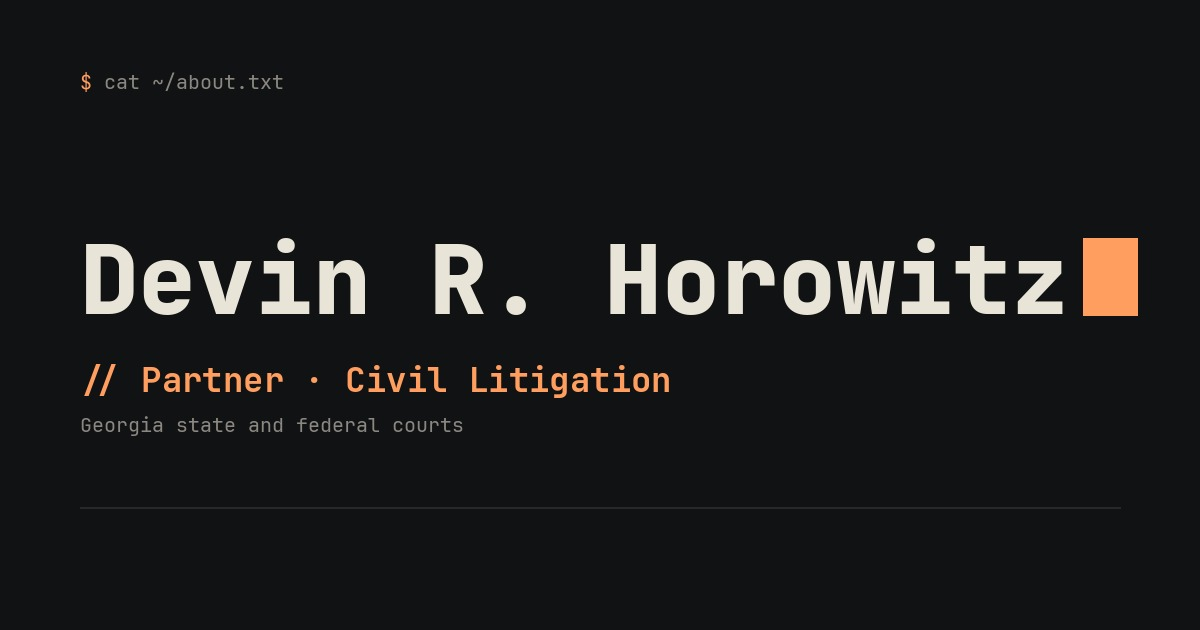
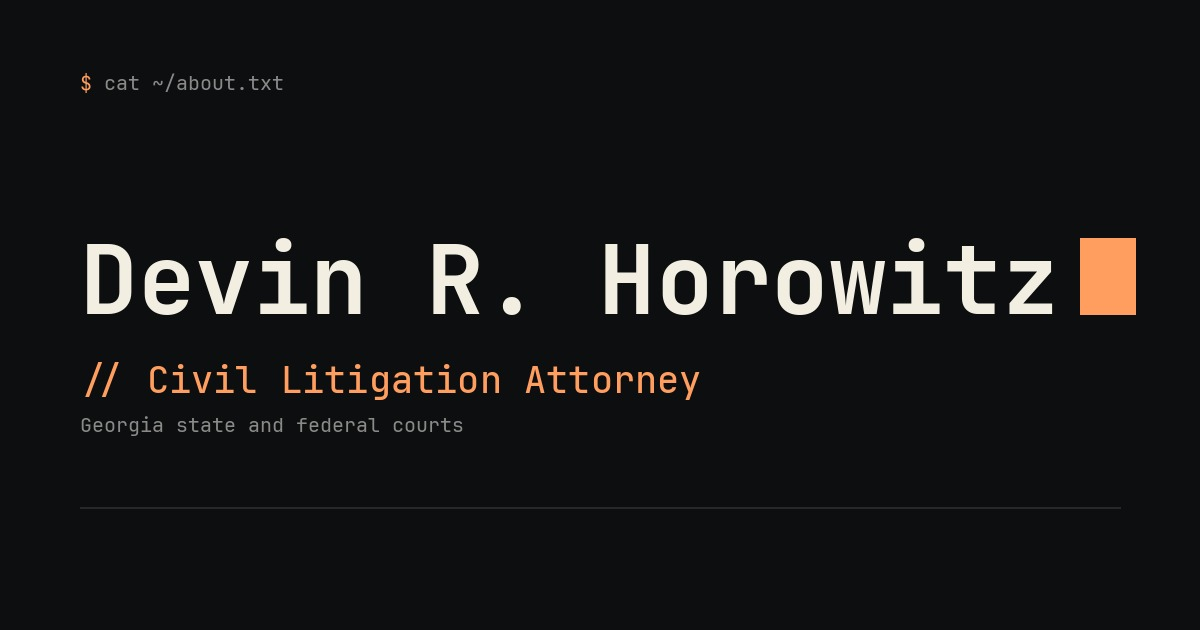
Add files via upload

diff --git a/index.html b/index.html
@@ -14,7 +14,7 @@
 <meta charset="UTF-8">
 <meta name="viewport" content="width=device-width, initial-scale=1.0">
 <title data-cfg-text="name_role_line">Devin R. Horowitz — Partner, Civil Litigation Attorney</title>
-<meta name="description" content="Devin R. Horowitz — Partner and civil litigation attorney with a decade of Georgia trial experience. Personal injury, complex liability. Based in metro Atlanta." data-cfg-content="desc_index">
+<meta name="description" content="Devin R. Horowitz — Partner and civil litigation attorney with Georgia trial experience since 2017. Personal injury, complex liability. Based in metro Atlanta." data-cfg-content="desc_index">
 <meta name="robots" content="index, follow">
 <meta name="theme-color" content="#0d0e10" media="(prefers-color-scheme: dark)">
 <meta name="theme-color" content="#f5ede0" media="(prefers-color-scheme: light)">
@@ -37,18 +37,18 @@
 <meta property="og:url" content="https://horowitz.law/">
 <meta property="og:locale" content="en_US">
 <meta property="og:title" content="Devin R. Horowitz — Partner, Civil Litigation Attorney" data-cfg-content="name_role_line">
-<meta property="og:description" content="Partner and civil litigation attorney with a decade of Georgia trial experience. Personal injury and complex liability matters." data-cfg-content="og_desc_index">
+<meta property="og:description" content="Partner and civil litigation attorney with Georgia trial experience since 2017. Personal injury and complex liability matters." data-cfg-content="og_desc_index">
 <meta property="og:image" content="https://horowitz.law/og-card.jpg">
 <meta property="og:image:type" content="image/jpeg">
 <meta property="og:image:width" content="1200">
 <meta property="og:image:height" content="630">
-<meta property="og:image:alt" content="Devin R. Horowitz — Partner, Civil Litigation Attorney, Georgia state and federal courts." data-cfg-content="og_image_alt">
+<meta property="og:image:alt" content="Devin R. Horowitz, Civil Litigation Attorney, Georgia state and federal courts." data-cfg-content="og_image_alt">
 <meta property="og:site_name" content="horowitz.law">
 
 <!-- Twitter -->
 <meta name="twitter:card" content="summary_large_image">
 <meta name="twitter:title" content="Devin R. Horowitz — Partner, Civil Litigation Attorney" data-cfg-content="name_role_line">
-<meta name="twitter:description" content="Partner and civil litigation attorney with a decade of Georgia trial experience. Personal injury and complex liability matters." data-cfg-content="og_desc_index">
+<meta name="twitter:description" content="Partner and civil litigation attorney with Georgia trial experience since 2017. Personal injury and complex liability matters." data-cfg-content="og_desc_index">
 <meta name="twitter:image" content="https://horowitz.law/og-card.jpg">
 
 <!-- JSON-LD structured data -->
@@ -898,8 +898,8 @@
     <section id="about">
       <h2 class="section-header">about</h2>
       <div class="section-body">
-        <p>Civil litigation attorney with a decade of Georgia trial experience, focused on personal injury and complex liability matters. I handle cases from pre-suit investigation through trial: catastrophic commercial-vehicle and wrongful-death claims, negligent entrustment, motor-vehicle liability, premises, and coverage disputes.</p>
-        <p>My career has run through both sides of the docket. I spent most of the past decade on the plaintiff side before moving to insurance defense at Quintairos, Prieto, Wood &amp; Boyer, P.A., where I am now a partner. The through-line across hundreds of depositions, mediations, and trials has been the same: build the file as if you're trying it.</p>
+        <p>Civil litigation attorney with Georgia trial experience since 2017, focused on personal injury and complex liability matters. I handle cases from pre-suit investigation through trial: catastrophic commercial-vehicle and wrongful-death claims, negligent entrustment, motor-vehicle liability, premises, and coverage disputes.</p>
+        <p>My career has run through both sides of the docket. I spent the early part of my career on the plaintiff side before moving to insurance defense at Quintairos, Prieto, Wood &amp; Boyer, P.A., where I am now a partner. The through-line across hundreds of depositions, mediations, and trials has been the same: build the file as if you're trying it.</p>
         <p>Before law, I earned a B.S. and M.S. in Information Technology with a concentration in information security and healthcare IT. That background still shapes how I work: discovery technology, document automation, and the systems side of running a litigation practice.</p>
       </div>
     </section>

diff --git a/resume.md b/resume.md
@@ -1,6 +1,6 @@
 ## summary
 
-Georgia civil litigator with a decade of experience on both sides of the docket. Current insurance defense practice in personal injury, premises liability, and trucking matters draws on six prior years of plaintiff-side personal injury work: drafting demands, reviewing medical records, and negotiating liens. The cross-side exposure informs how cases are built, valued, and resolved.
+Georgia civil litigator practicing on both sides of the docket since 2017. Current insurance defense practice in personal injury, premises liability, and trucking matters draws on six prior years of plaintiff-side personal injury work: drafting demands, reviewing medical records, and negotiating liens. The cross-side exposure informs how cases are built, valued, and resolved.
 
 ## education
 

diff --git a/README.md b/README.md
@@ -10,7 +10,7 @@ is maintained is in [MAINTENANCE.md](./MAINTENANCE.md); how to work on the repo 
 ## stack
 
 This site is hand-coded HTML, CSS, and JavaScript. No framework. No build step. No compiled
-bundles. JetBrains Mono is self-hosted in four weights. The QR code, portrait corner brackets,
+bundles. JetBrains Mono is self-hosted. The QR code, portrait corner brackets,
 favicon, and other ornamentation are SVG. Everything else is plain CSS.
 
 The typing animation in the hero, the analog flicker on theme transitions, and the click sound on
